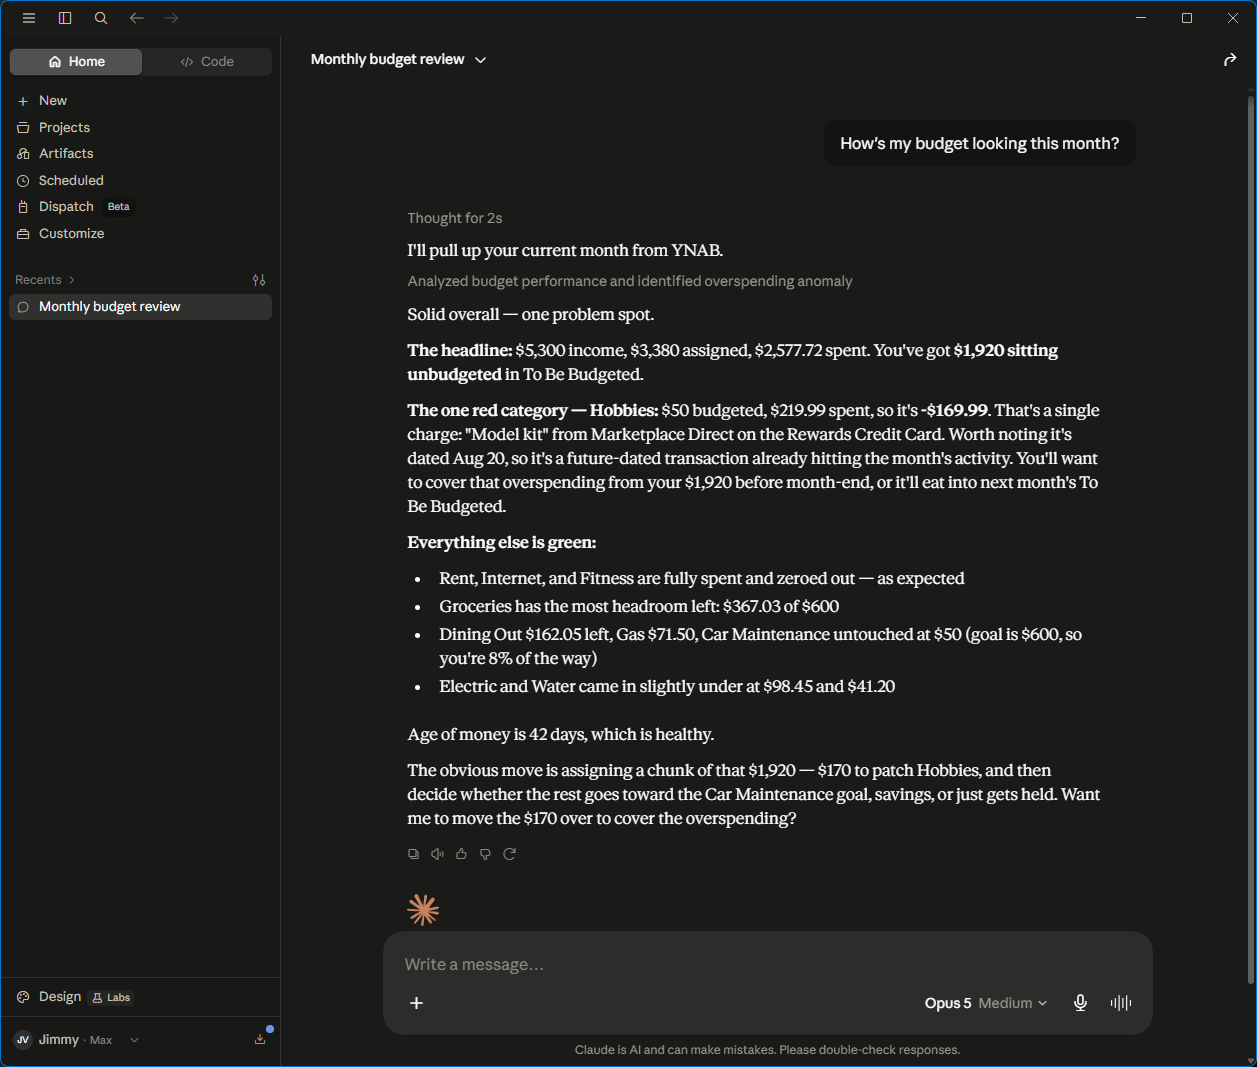
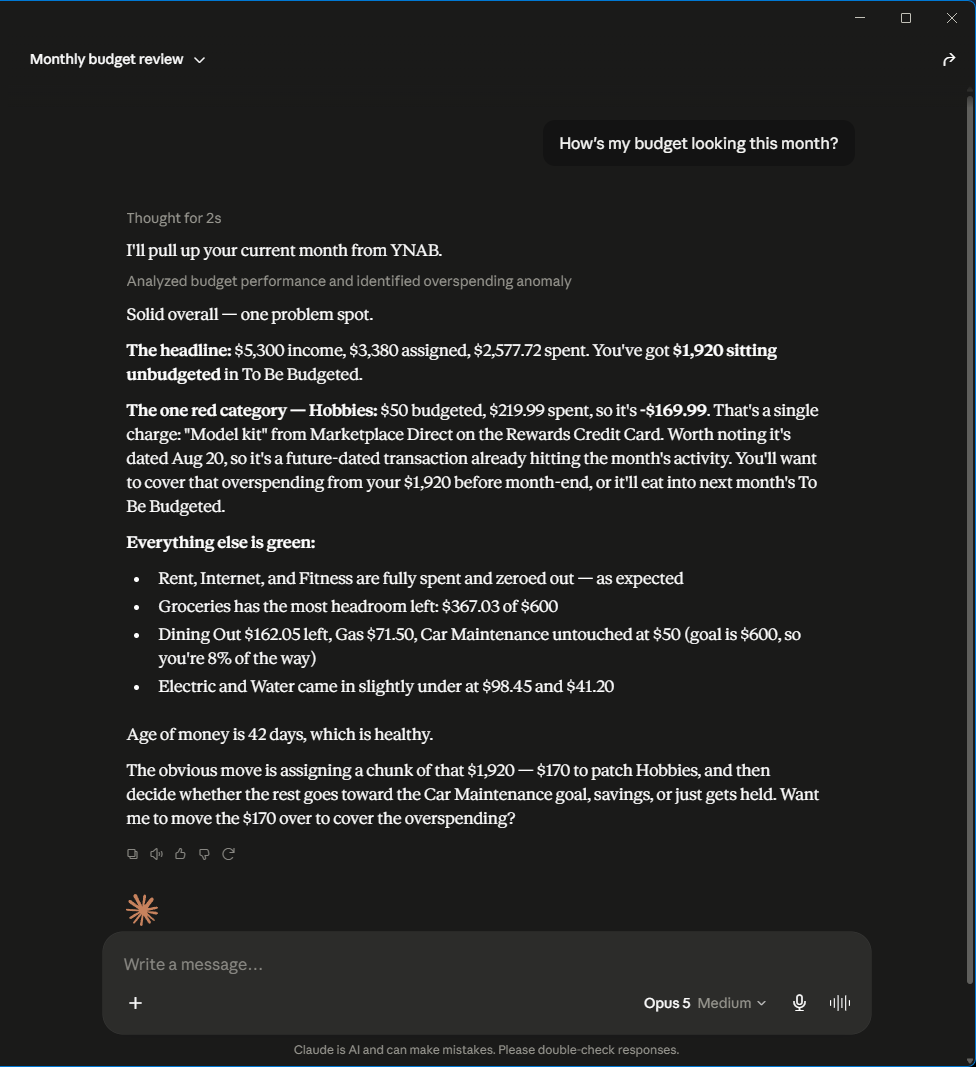
docs(site): crop account names and personal chrome out of screenshots
Sidebars, tab strips, and banners carried the owner's name and username;
cropping (never blurring) removes them while keeping every conversation
intact. Retake checklist updated to make this a standing rule.

diff --git a/docs/SCREENSHOTS.md b/docs/SCREENSHOTS.md
@@ -33,6 +33,9 @@ session, no mock-ups, no edited chrome (rectangular cropping only). Files live i
    must show the fictional Demo Budget — ~$5,300 income, an overspent Hobbies category with a
    $219.99 "Model kit", "Nimbus Analytics Payroll" paychecks. Anything else = real data, discard.
 3. Sweep the frame: window titles, scrollback, sidebars — no tokens, no real amounts, no
-   addresses. Crop rather than blur; blurring reads as edited chrome.
+   addresses. Crop rather than blur; blurring reads as edited chrome. The shipped set crops out
+   app sidebars, tab strips, and banners entirely, because that's where harnesses put account
+   names and usernames — do the same on retakes (sharp `extract`; see git history for the
+   originals' crop boxes).
 4. PNG, roughly 1200–1300 px wide, into `site/src/assets/screenshots/`, embedded with alt text
    that describes what the reader is looking at.
